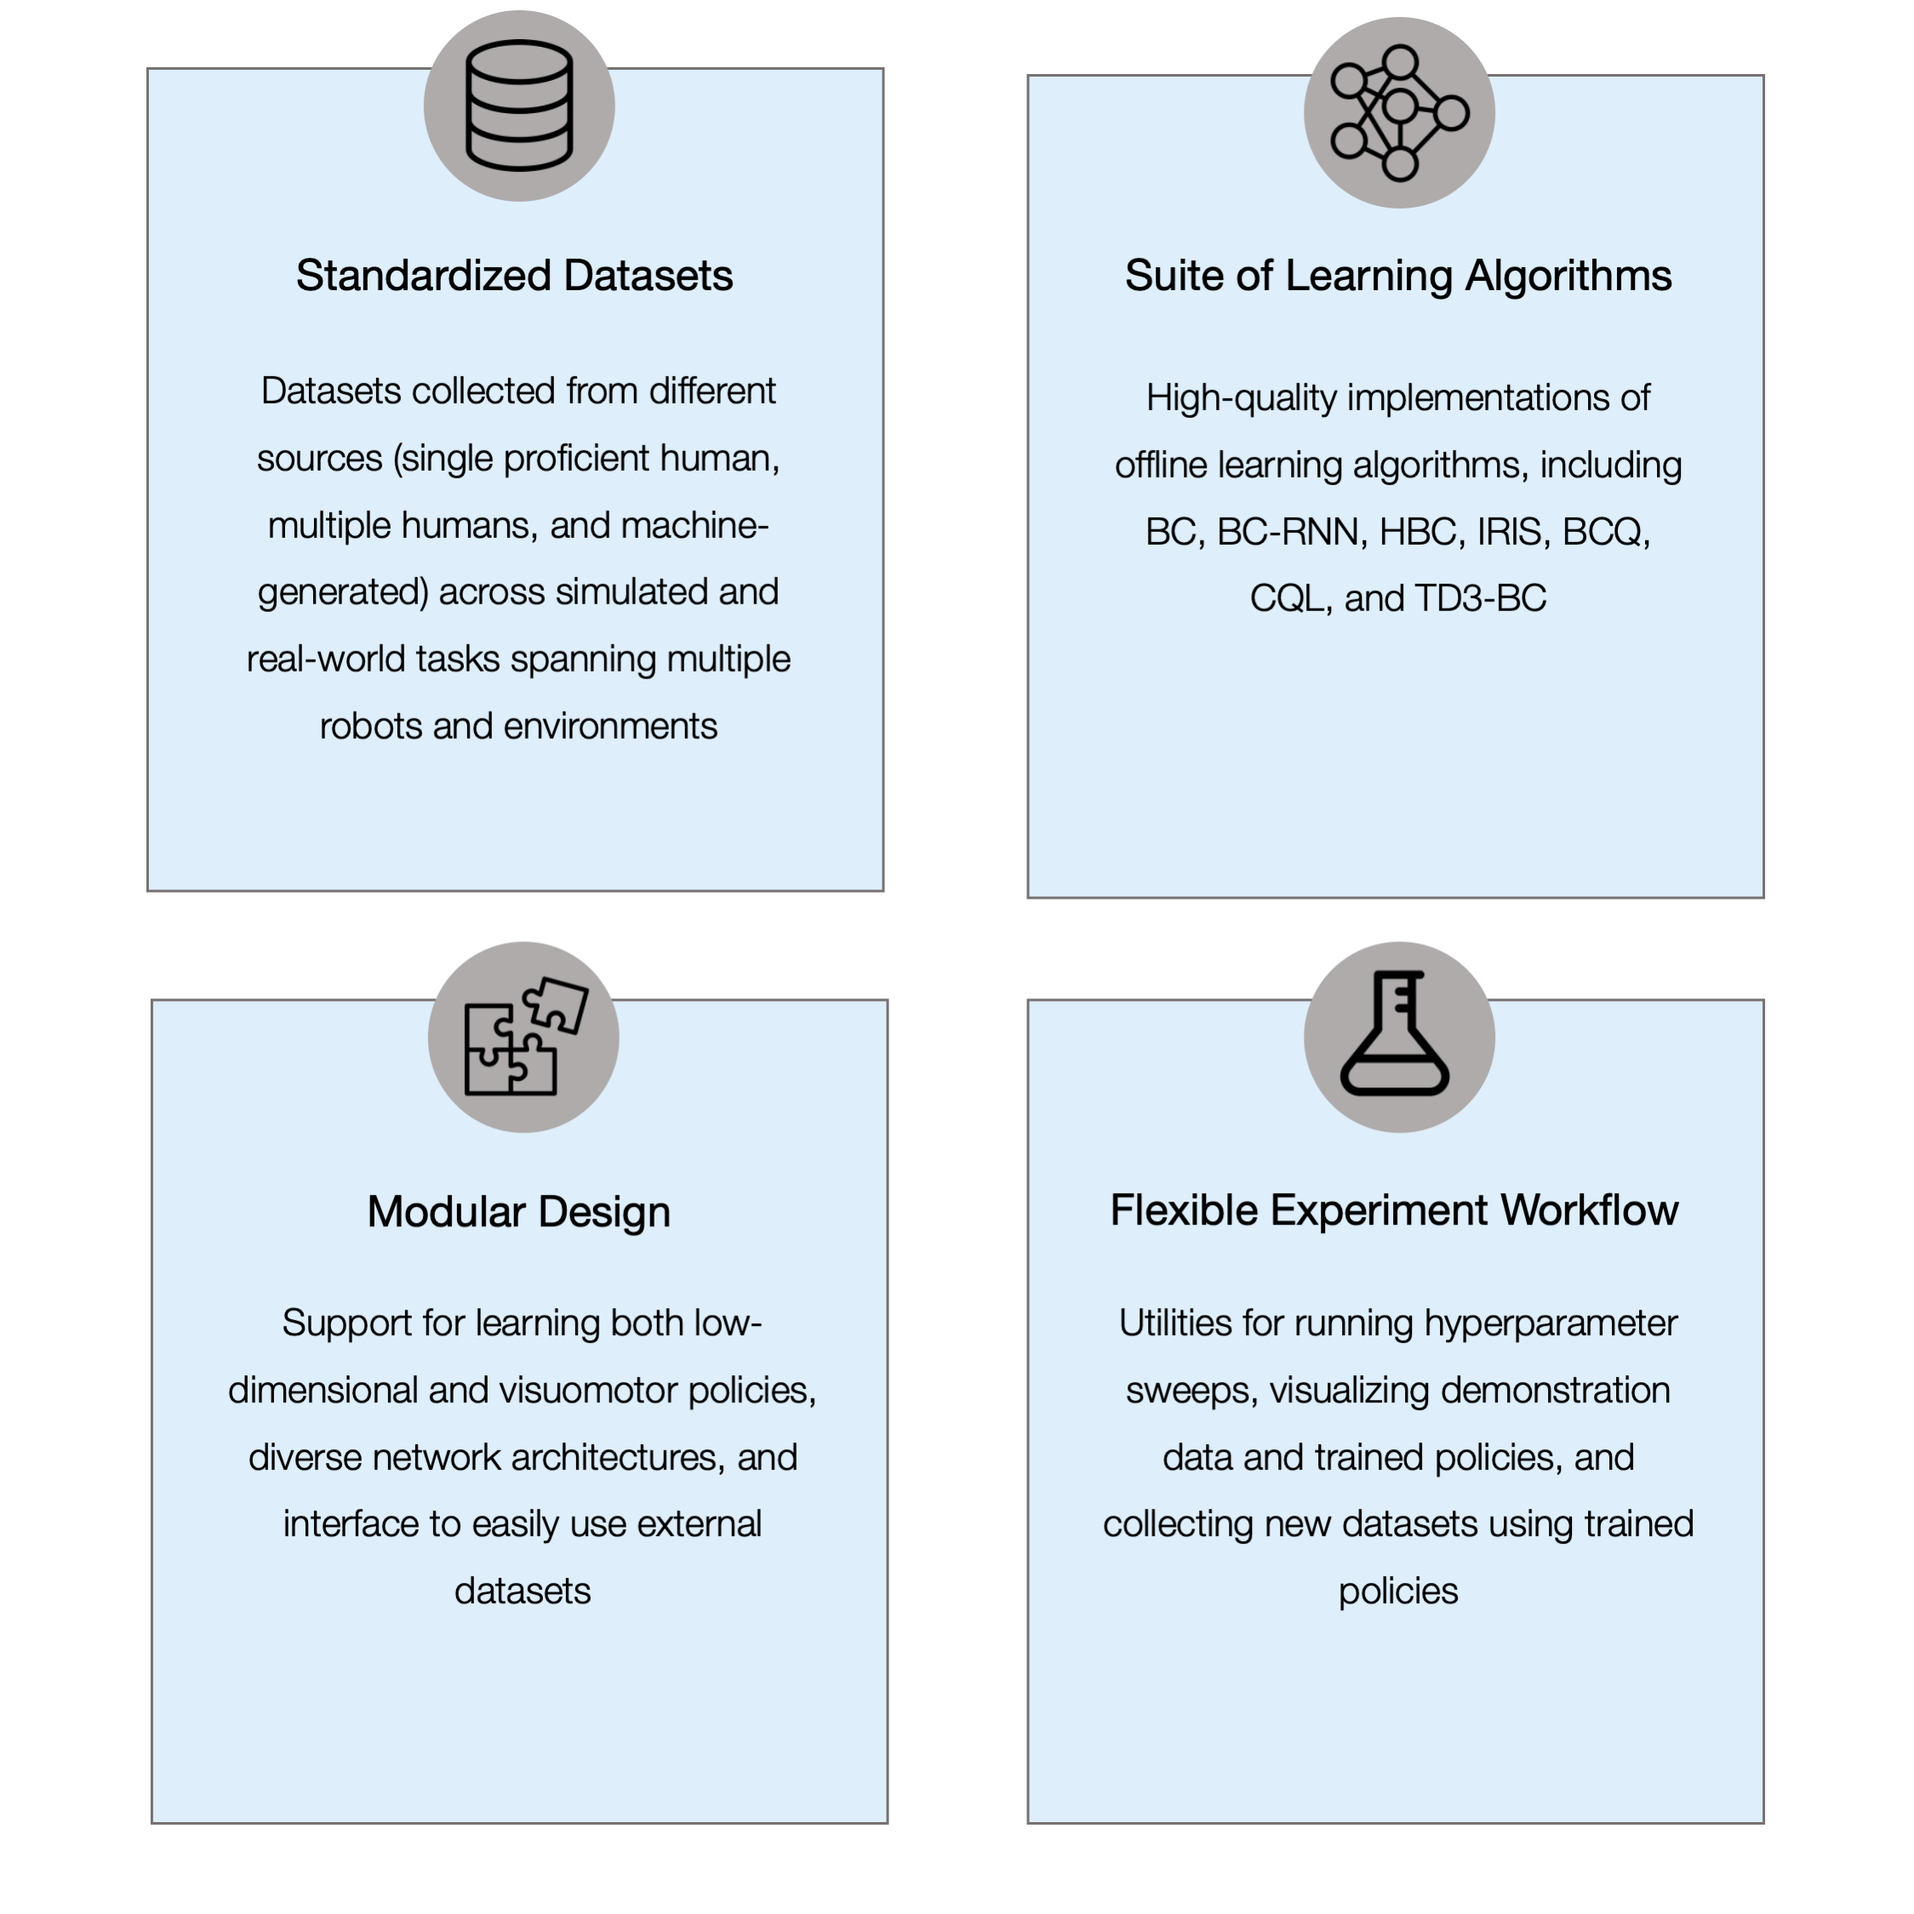
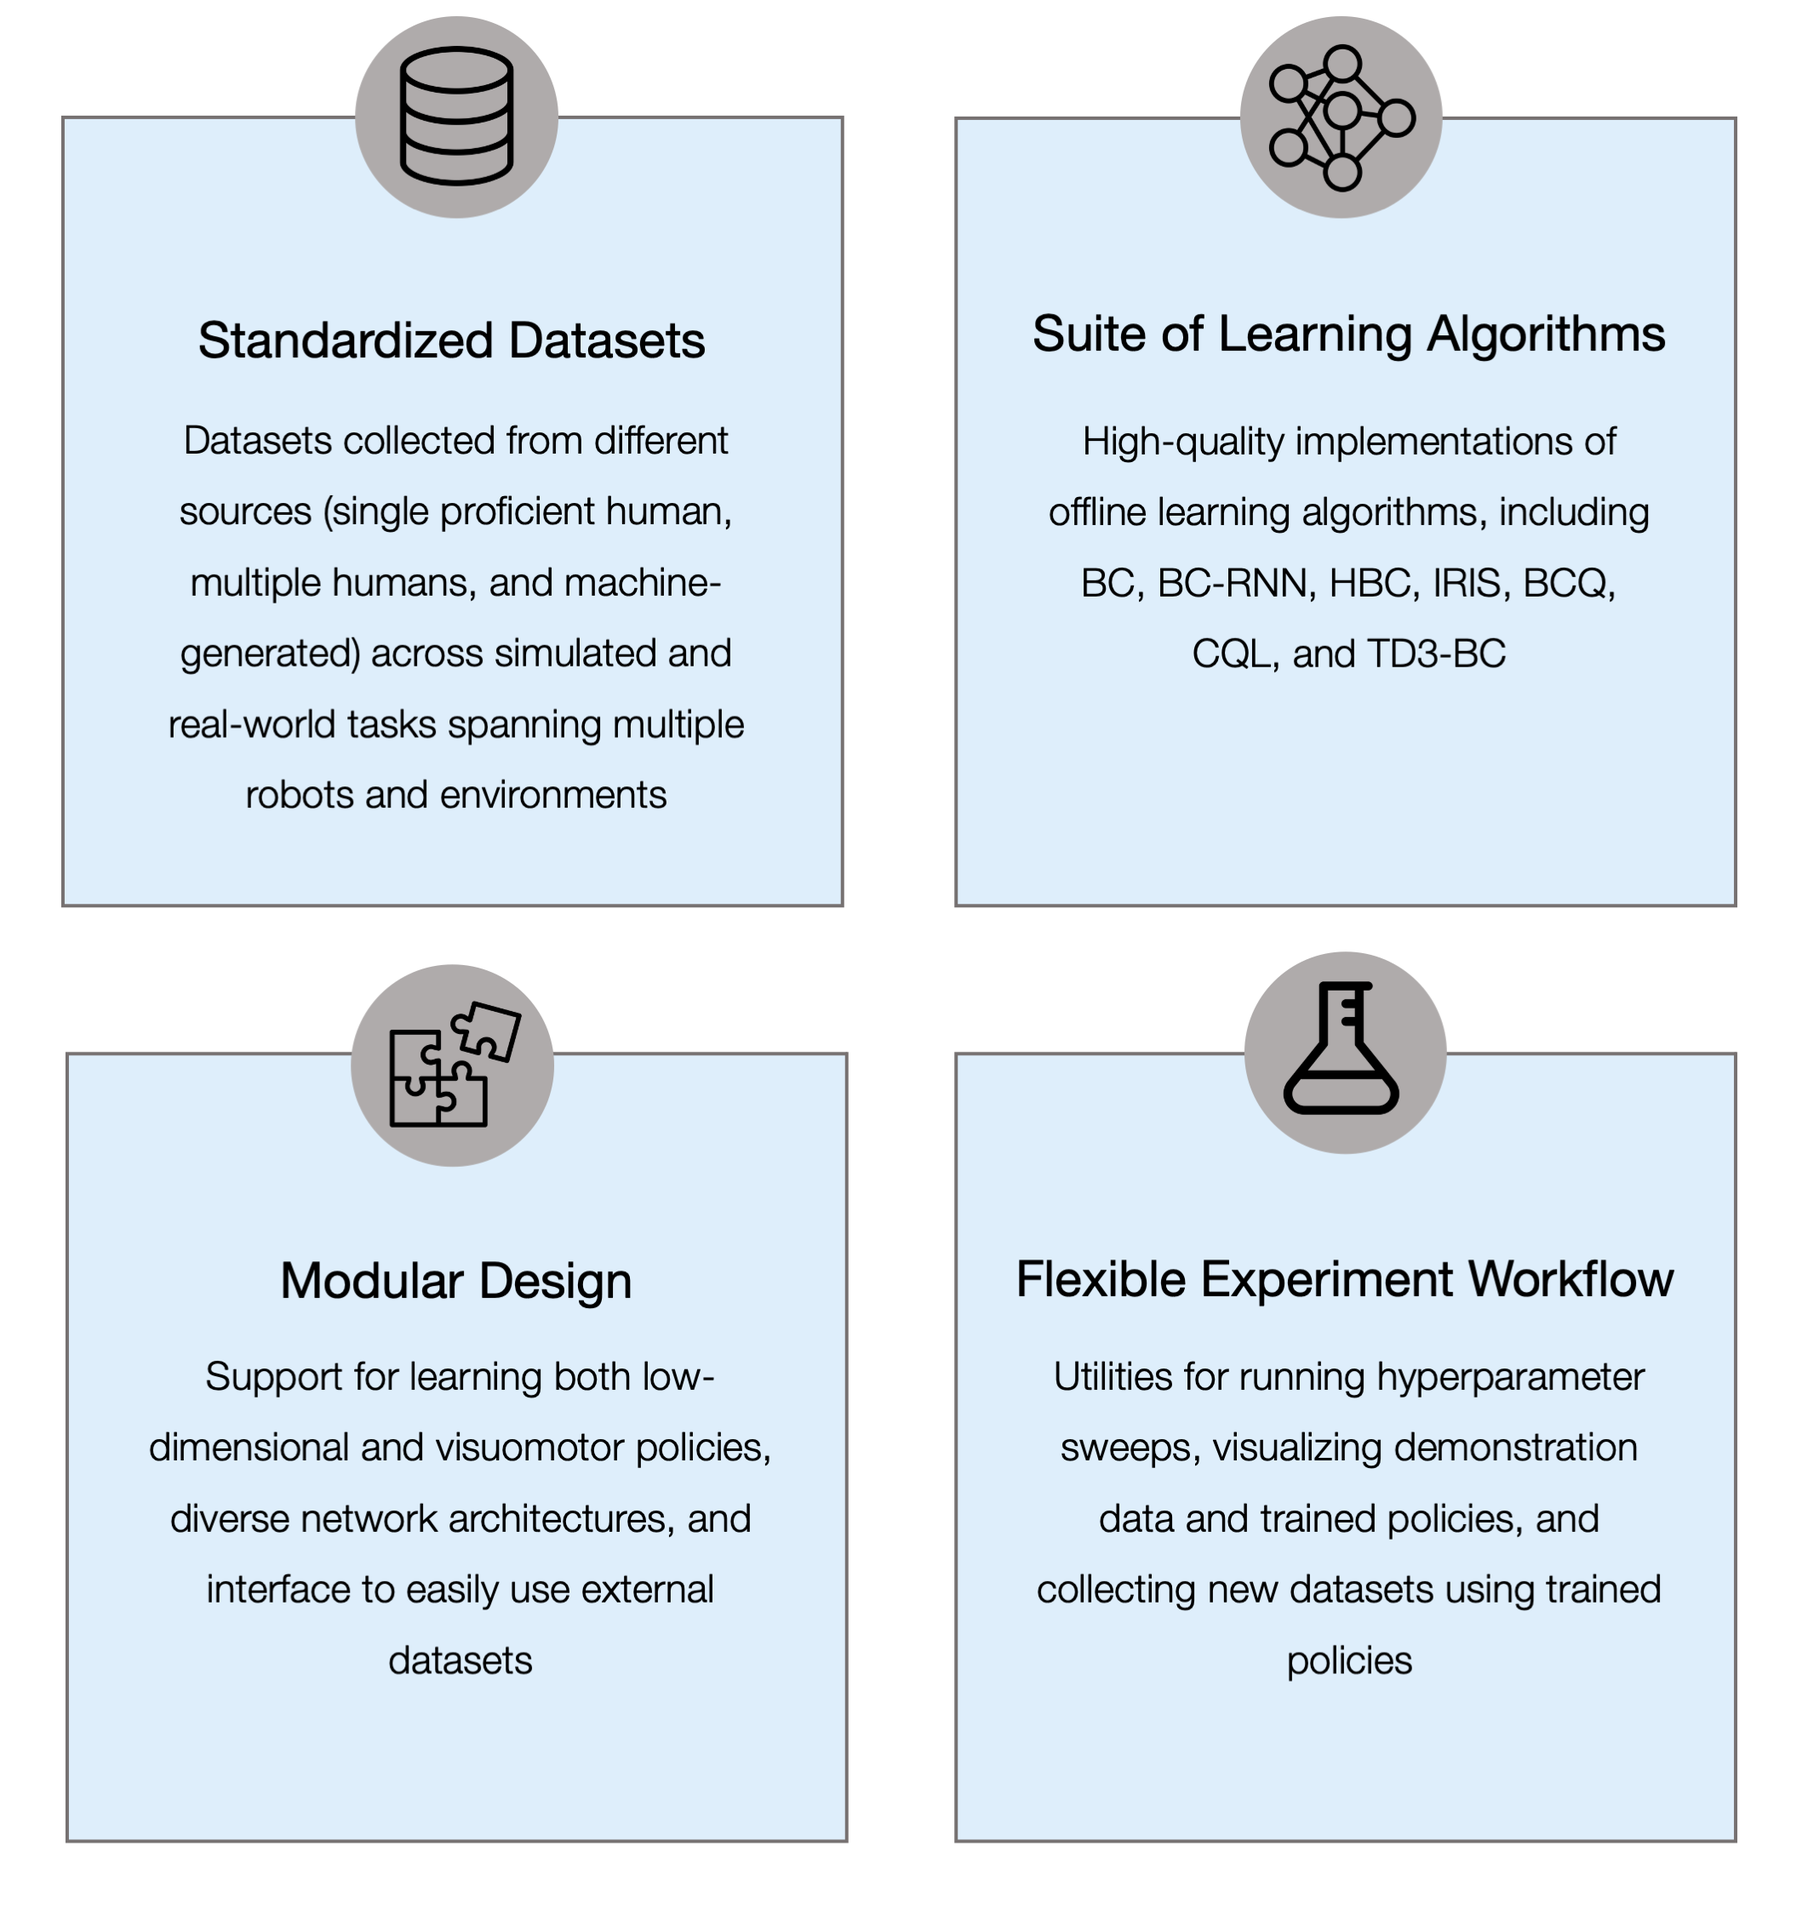
update core features

Changed region(s): [[0.0312, 0.0, 0.4988, 0.9649], [0.53, 0.0, 0.9665, 0.9649]]

diff --git a/docs/introduction/overview.md b/docs/introduction/overview.md
@@ -52,7 +52,7 @@ It offers a broad set of demonstration datasets collected on robot manipulation 
 </div> -->
 
 <p align="center">
-  <img style="width:80.0%;height:auto;" src="../_images/core_features.png">
+  <img style="width:100.0%;height:auto;" src="../_images/core_features.png">
  </p>
 
 <!--
